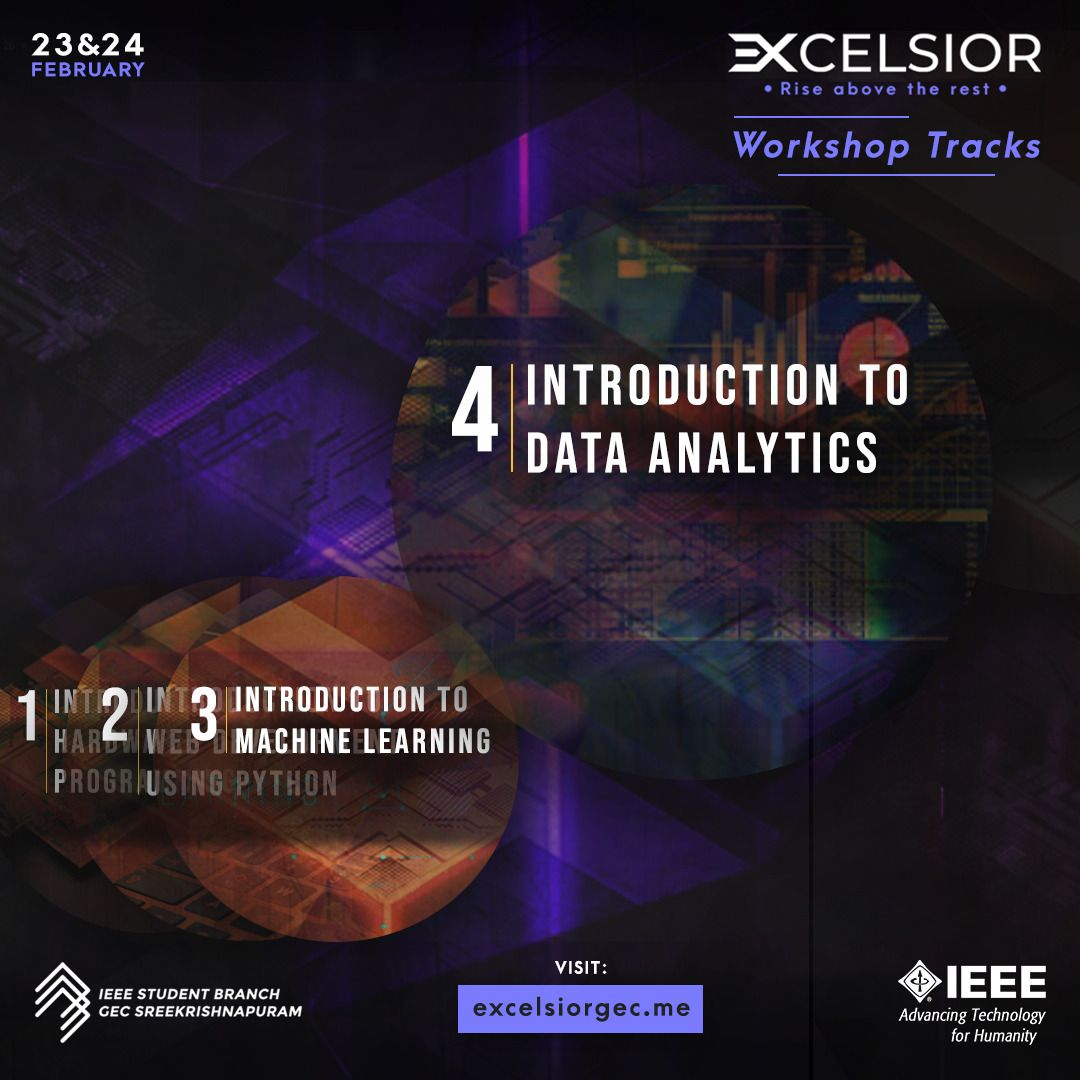
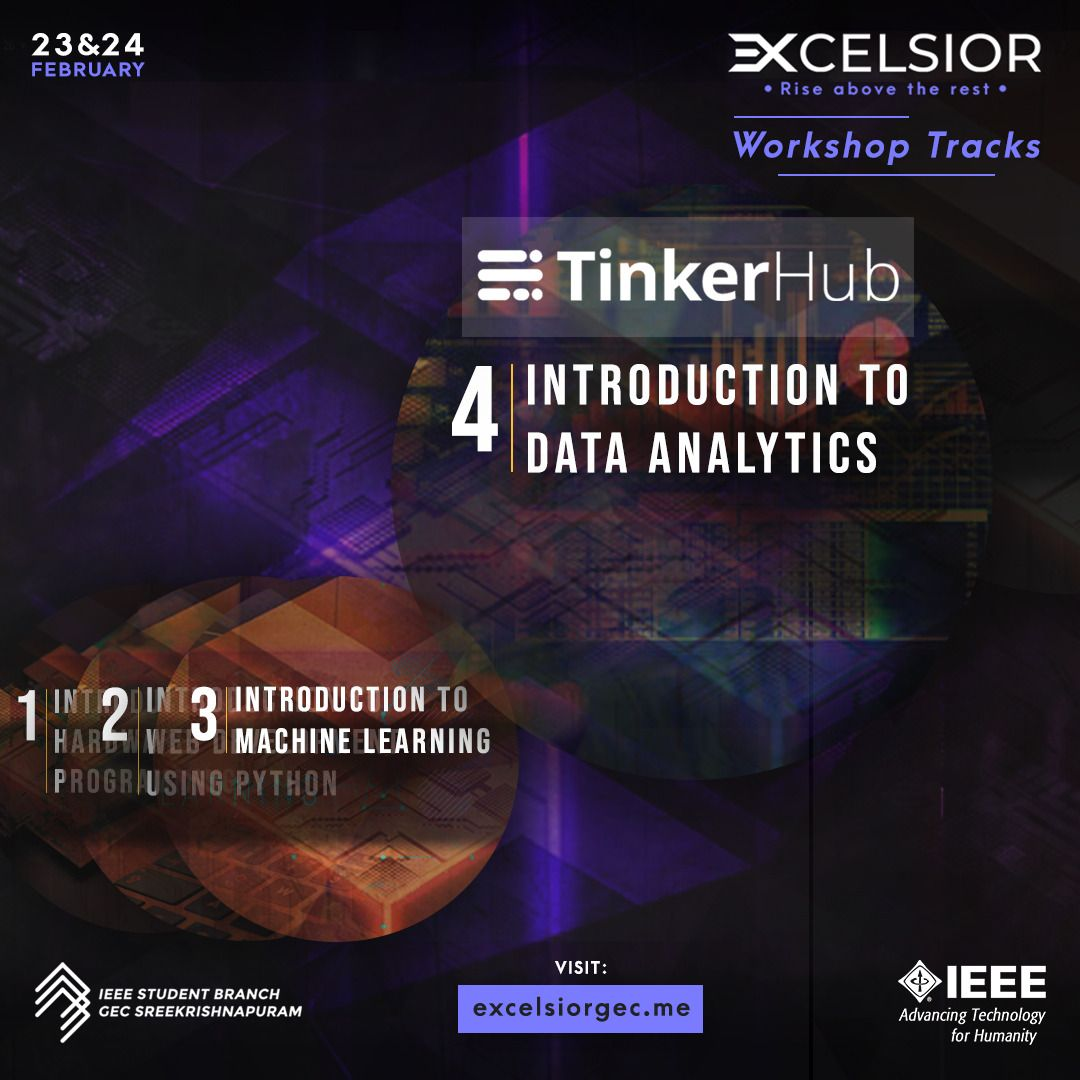
spomsors added to images.

Changed region(s): [[0.4278, 0.1833, 0.8556, 0.3361]]

diff --git a/index.html b/index.html
@@ -304,7 +304,7 @@
                       <!-- Info end -->
                    </div>
                    <!-- Speaker end -->
-                </div>-->
+                </div>
                  <!-- Speaker Col 1 end -->
                </div>
                <!-- Content row 2 end -->
